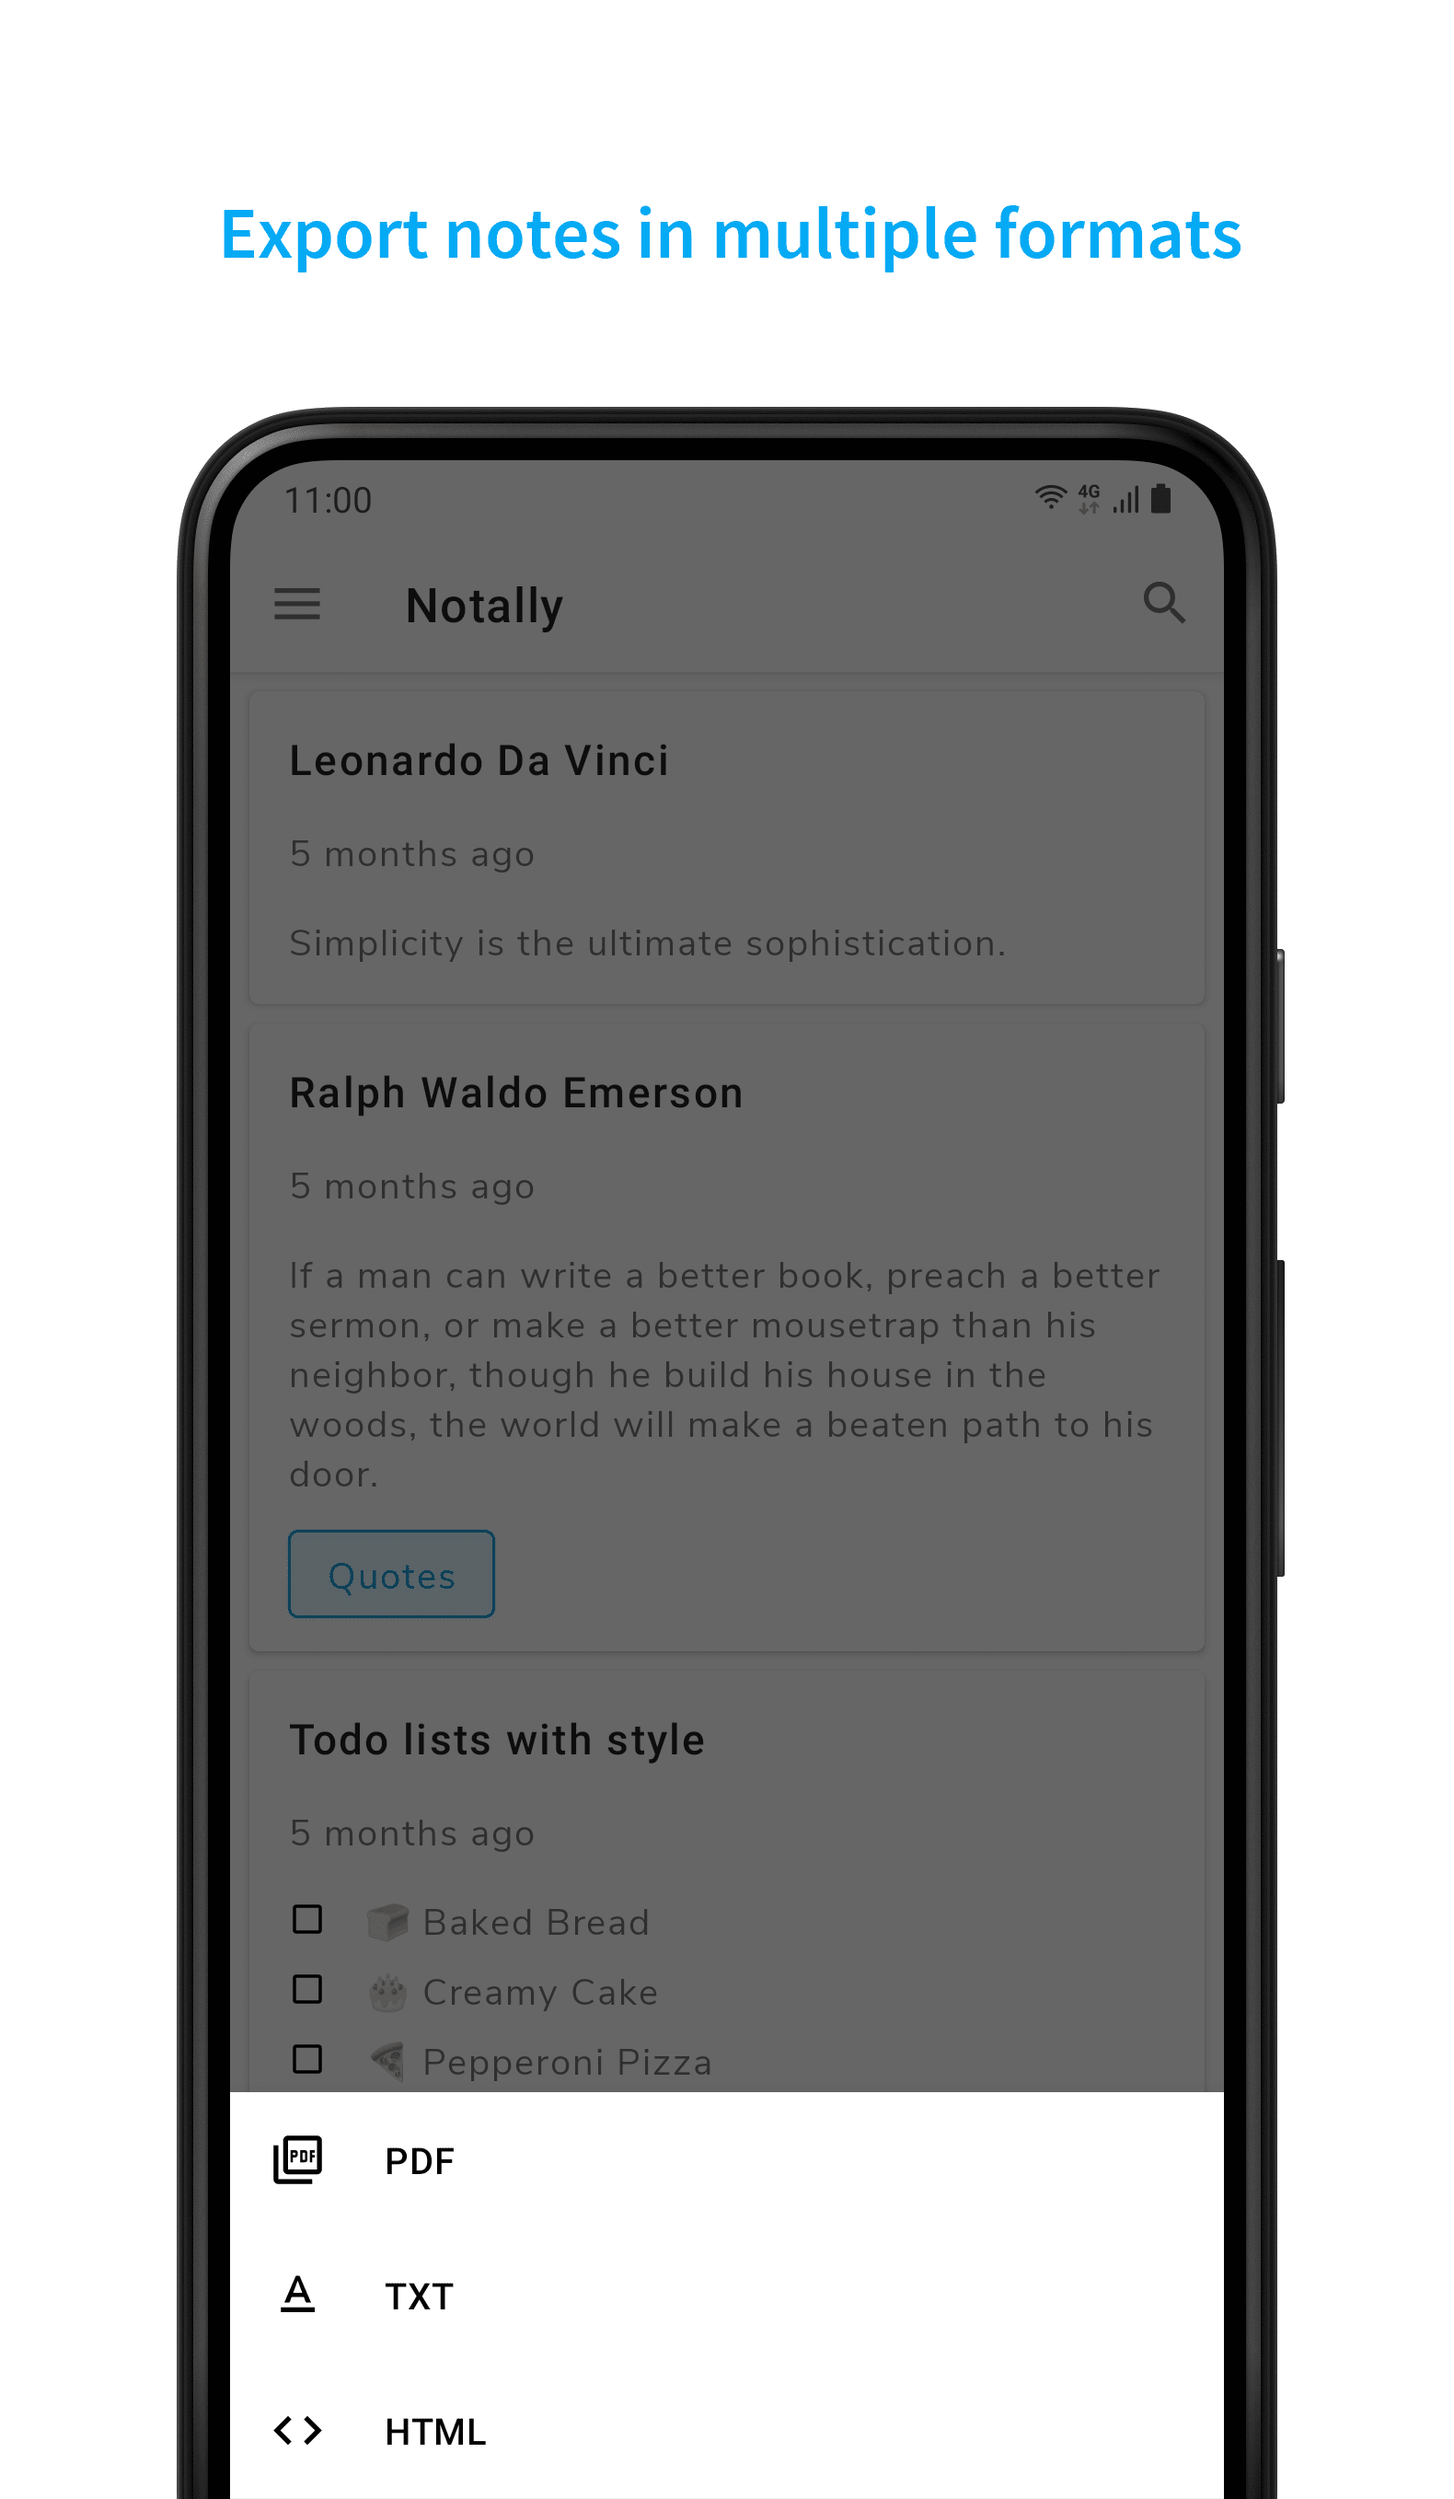
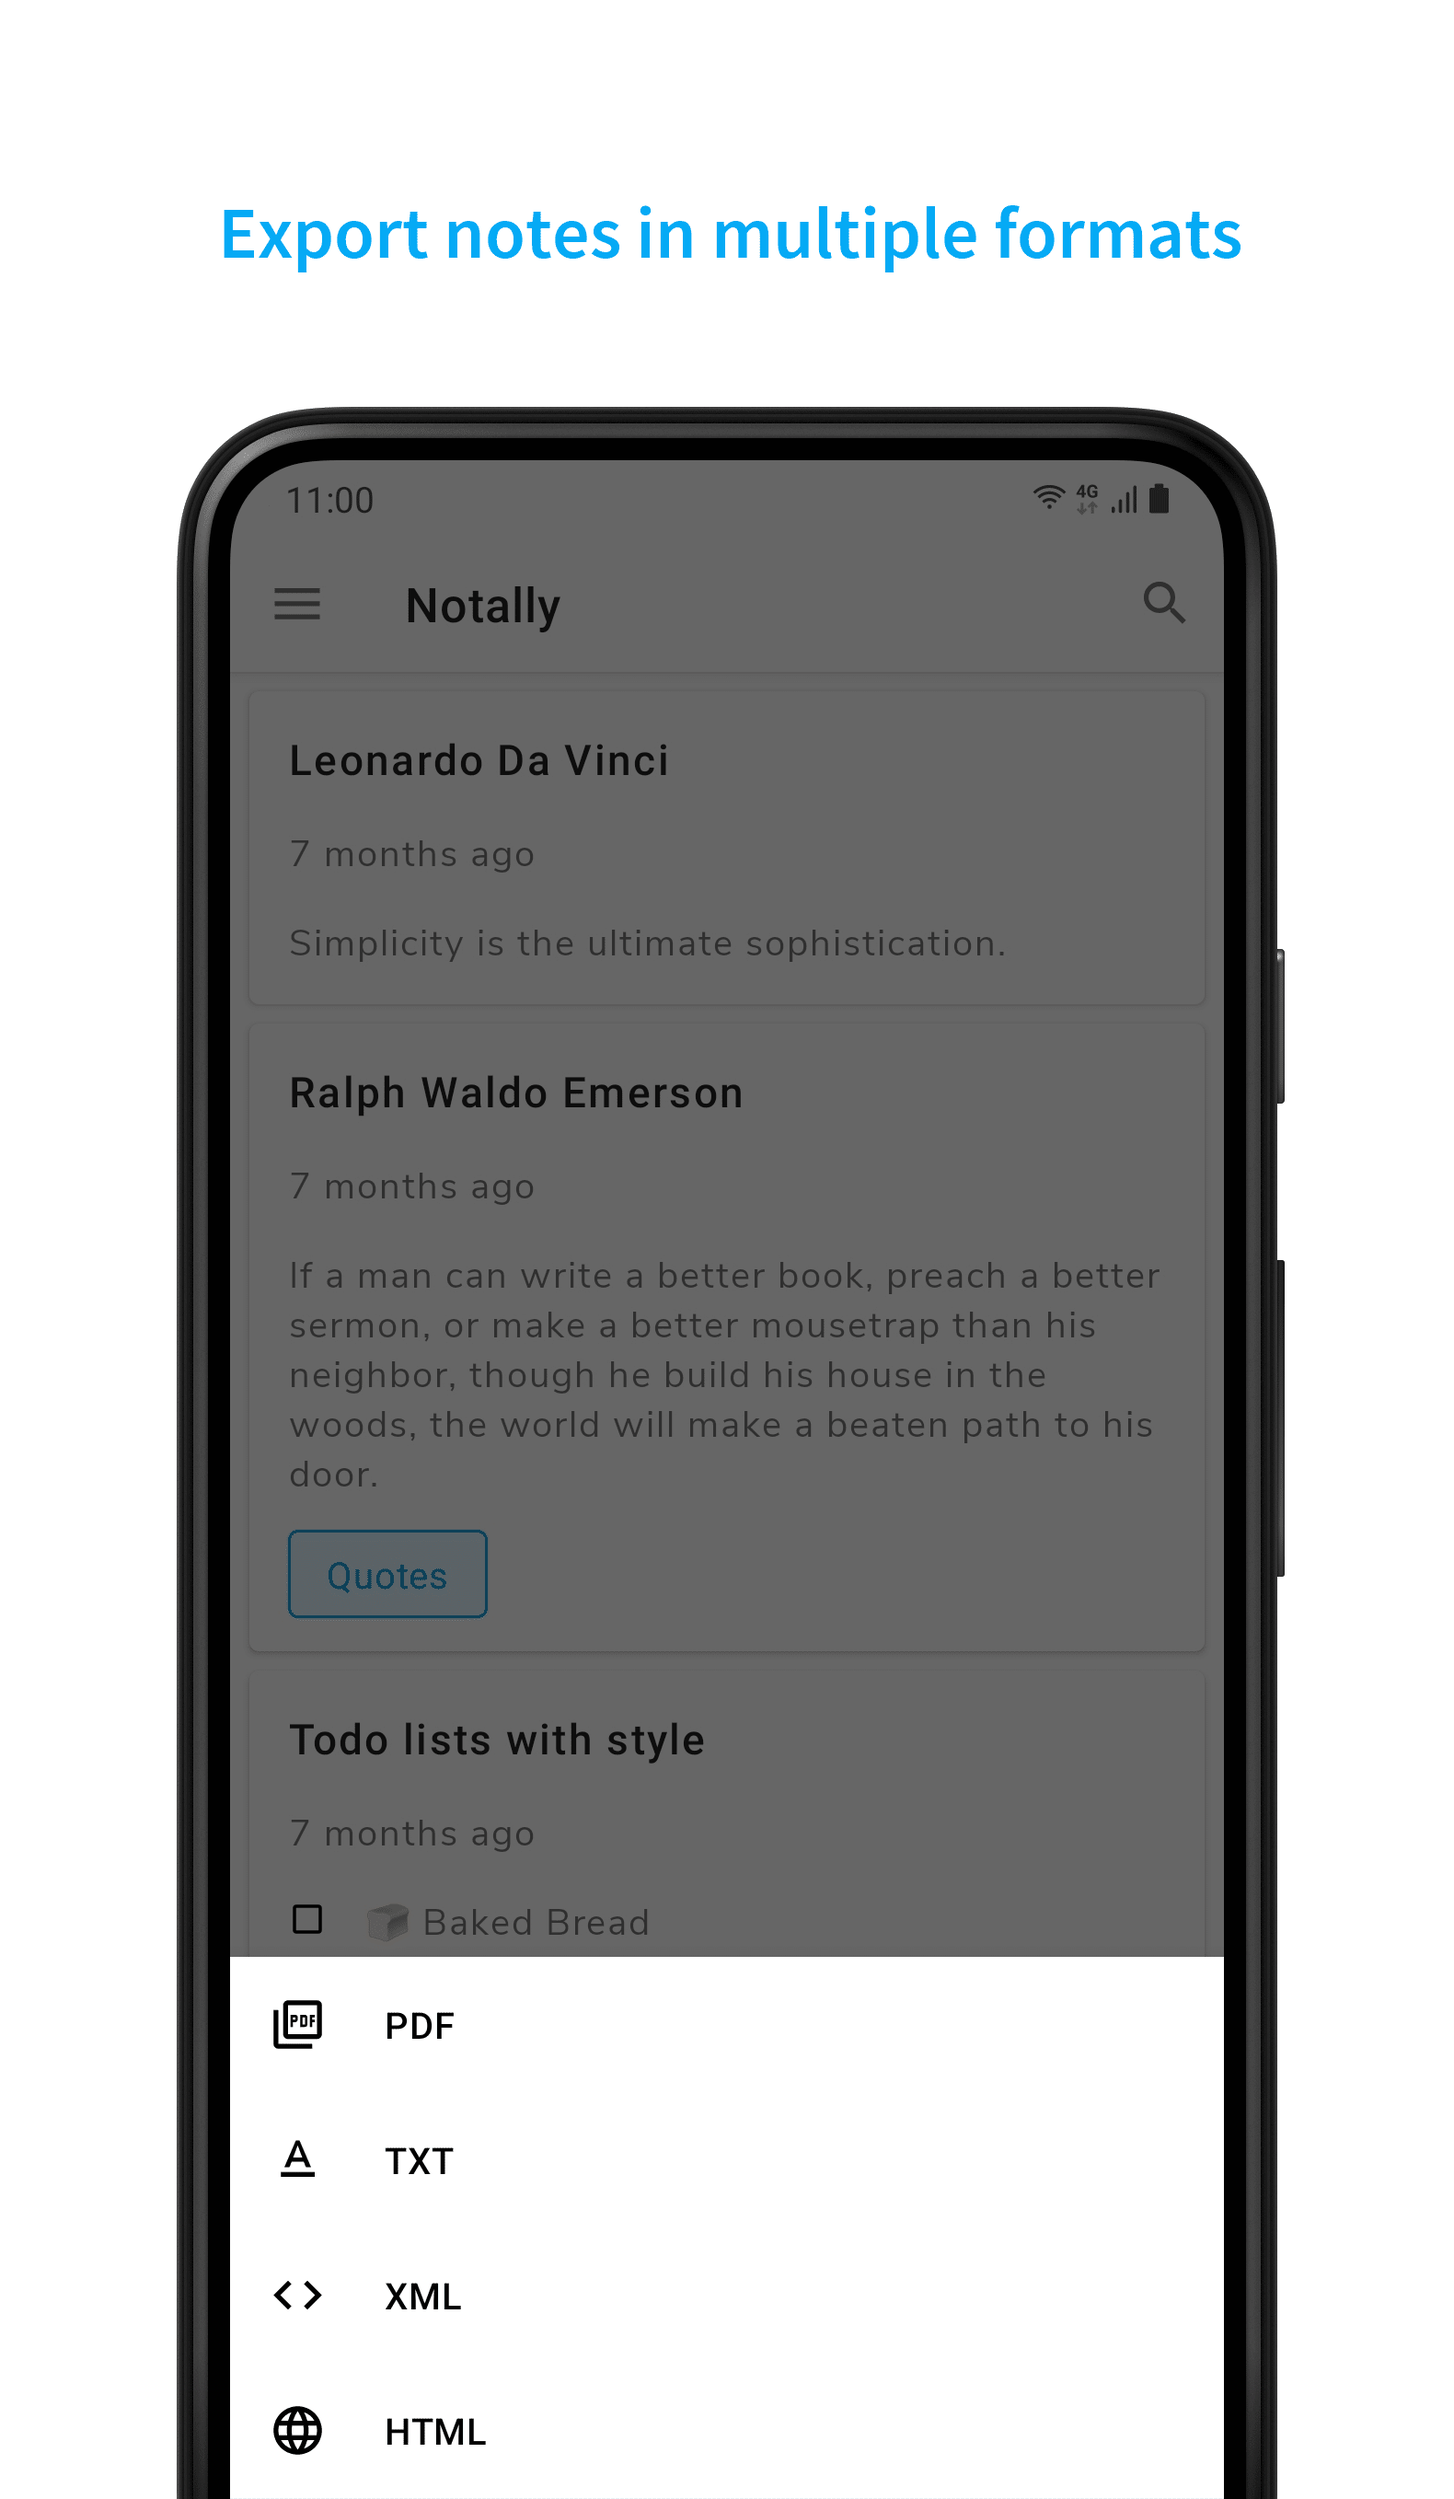
Included XML in the list of supported export formats

diff --git a/app/src/main/java/com/omgodse/notally/fragments/NotallyFragment.kt b/app/src/main/java/com/omgodse/notally/fragments/NotallyFragment.kt
@@ -11,6 +11,7 @@ import android.view.ViewGroup
 import android.widget.LinearLayout
 import android.widget.Toast
 import androidx.core.content.FileProvider
+import androidx.core.view.isVisible
 import androidx.fragment.app.Fragment
 import androidx.fragment.app.activityViewModels
 import androidx.lifecycle.LiveData
@@ -140,10 +141,7 @@ abstract class NotallyFragment : Fragment(), OperationsParent, ItemListener {
     private fun setupObserver() {
         getObservable()?.observe(viewLifecycleOwner, { list ->
             adapter?.submitList(list)
-
-            if (list.isNotEmpty()) {
-                binding?.RecyclerView?.visibility = View.VISIBLE
-            } else binding?.RecyclerView?.visibility = View.GONE
+            binding?.RecyclerView?.isVisible = list.isNotEmpty()
         })
     }
 
@@ -176,6 +174,7 @@ abstract class NotallyFragment : Fragment(), OperationsParent, ItemListener {
         MenuDialog(mContext)
             .addItem(Operation(R.string.pdf, R.drawable.pdf) { exportBaseNoteToPDF(baseNote) })
             .addItem(Operation(R.string.txt, R.drawable.txt) { exportBaseNoteToTXT(baseNote) })
+            .addItem(Operation(R.string.xml, R.drawable.xml) { exportBaseNoteToXML(baseNote) })
             .addItem(Operation(R.string.html, R.drawable.html) { exportBaseNoteToHTML(baseNote) })
             .show()
     }
@@ -196,7 +195,7 @@ abstract class NotallyFragment : Fragment(), OperationsParent, ItemListener {
             }
 
             override fun onFailure(message: String?) {
-                Toast.makeText(context, R.string.something_went_wrong, Toast.LENGTH_SHORT).show()
+                Toast.makeText(mContext, R.string.something_went_wrong, Toast.LENGTH_SHORT).show()
             }
         })
     }
@@ -205,6 +204,13 @@ abstract class NotallyFragment : Fragment(), OperationsParent, ItemListener {
         lifecycleScope.launch {
             val file = model.getTXTFile(baseNote, settingsHelper.getShowDateCreated())
             showFileOptionsDialog(file, "text/plain")
+        }
+    }
+
+    private fun exportBaseNoteToXML(baseNote: BaseNote) {
+        lifecycleScope.launch {
+            val file = model.getXMLFile(baseNote)
+            showFileOptionsDialog(file, "text/xml")
         }
     }
 
@@ -227,29 +233,29 @@ abstract class NotallyFragment : Fragment(), OperationsParent, ItemListener {
 
 
     private fun viewFile(uri: Uri, mimeType: String) {
-        val intent = Intent(Intent.ACTION_VIEW).apply {
-            setDataAndType(uri, mimeType)
-            flags = Intent.FLAG_GRANT_READ_URI_PERMISSION
-        }
+        val intent = Intent(Intent.ACTION_VIEW)
+        intent.setDataAndType(uri, mimeType)
+        intent.flags = Intent.FLAG_GRANT_READ_URI_PERMISSION
+
         val chooser = Intent.createChooser(intent, mContext.getString(R.string.view_note))
         startActivity(chooser)
     }
 
     private fun shareFile(uri: Uri, mimeType: String) {
-        val intent = Intent(Intent.ACTION_SEND).apply {
-            type = mimeType
-            putExtra(Intent.EXTRA_STREAM, uri)
-        }
+        val intent = Intent(Intent.ACTION_SEND)
+        intent.type = mimeType
+        intent.putExtra(Intent.EXTRA_STREAM, uri)
+
         val chooser = Intent.createChooser(intent, mContext.getString(R.string.share_note))
         startActivity(chooser)
     }
 
     private fun saveFileToDevice(file: File, mimeType: String) {
-        val intent = Intent(Intent.ACTION_CREATE_DOCUMENT).apply {
-            type = mimeType
-            addCategory(Intent.CATEGORY_OPENABLE)
-            putExtra(Intent.EXTRA_TITLE, file.nameWithoutExtension)
-        }
+        val intent = Intent(Intent.ACTION_CREATE_DOCUMENT)
+        intent.type = mimeType
+        intent.addCategory(Intent.CATEGORY_OPENABLE)
+        intent.putExtra(Intent.EXTRA_TITLE, file.nameWithoutExtension)
+
         model.currentFile = file
         startActivityForResult(intent, Constants.RequestCodeExportFile)
     }

diff --git a/app/src/main/java/com/omgodse/notally/viewmodels/BaseNoteModel.kt b/app/src/main/java/com/omgodse/notally/viewmodels/BaseNoteModel.kt
@@ -132,6 +132,15 @@ class BaseNoteModel(private val app: Application) : AndroidViewModel(app) {
     }
 
 
+    suspend fun getXMLFile(baseNote: BaseNote) = withContext(Dispatchers.IO) {
+        val fileName = getFileName(baseNote)
+        val file = File(getExportedPath(), "$fileName.xml")
+        val outputStream = FileOutputStream(file)
+        XMLUtils.writeBaseNoteToStream(baseNote, outputStream)
+        outputStream.close()
+        file
+    }
+
     suspend fun getTXTFile(baseNote: BaseNote, showDateCreated: Boolean) = withContext(Dispatchers.IO) {
         val fileName = getFileName(baseNote)
         val file = File(getExportedPath(), "$fileName.txt")
@@ -233,6 +242,7 @@ class BaseNoteModel(private val app: Application) : AndroidViewModel(app) {
     private fun getHTML(baseNote: BaseNote, showDateCreated: Boolean) = buildString {
         val date = formatter.format(baseNote.timestamp)
 
+        append("<!DOCTYPE html>")
         append("<html><head><meta charset=\"UTF-8\"></head><body>")
         append("<h2>${Html.escapeHtml(baseNote.title)}</h2>")
 
@@ -243,7 +253,7 @@ class BaseNoteModel(private val app: Application) : AndroidViewModel(app) {
         when (baseNote.type) {
             Type.NOTE -> {
                 val body = baseNote.body.applySpans(baseNote.spans).toHtml()
-                append("<p>$body</p>")
+                append(body)
             }
             Type.LIST -> {
                 append("<ol>")

diff --git a/app/src/main/java/com/omgodse/notally/xml/XMLUtils.kt b/app/src/main/java/com/omgodse/notally/xml/XMLUtils.kt
@@ -113,6 +113,22 @@ object XMLUtils {
         xmlSerializer.endDocument()
     }
 
+    fun writeBaseNoteToStream(baseNote: BaseNote, stream: OutputStream) {
+        val xmlSerializer = Xml.newSerializer()
+
+        xmlSerializer.setOutput(stream, null)
+        xmlSerializer.setFeature("http://xmlpull.org/v1/doc/features.html#indent-output", true)
+        xmlSerializer.startDocument("UTF-8", true)
+
+        when (baseNote.type) {
+            Type.NOTE -> appendNote(baseNote, xmlSerializer)
+            Type.LIST -> appendList(baseNote, xmlSerializer)
+        }
+
+        xmlSerializer.endDocument()
+    }
+
+
     private fun appendNote(note: BaseNote, xmlSerializer: XmlSerializer) {
         xmlSerializer.startTag(null, XMLTags.Note)
 

diff --git a/README.md b/README.md
@@ -1,4 +1,4 @@
-*Please use the issues tab only for bug reports*
+*Please use the pull requests tab only for translations or bug reports*
 
 ### Background
 Although there are many notes apps out there, they're all hideous, glitchy, low quality or all 3 at the same time.
@@ -23,7 +23,7 @@ Well, Notally is none of these things. It's extremely light, minimalistic and el
 * APK size of 1.5 MB (1.9 MB Uncompressed)
 * Add labels to your notes for quick organisation
 * Archive notes to keep them around, but out of your way
-* Export notes as plain text, HTML or PDF files with formatting
+* Export notes as plain text, XML, HTML or PDF files with formatting
 * Create rich text notes with support for bold, italics, mono space and strike-through
 * Add clickable links to notes with support for phone numbers, email addresses and web urls
 
